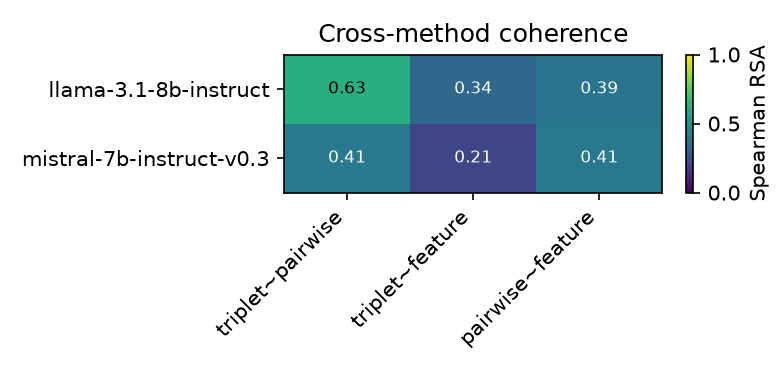
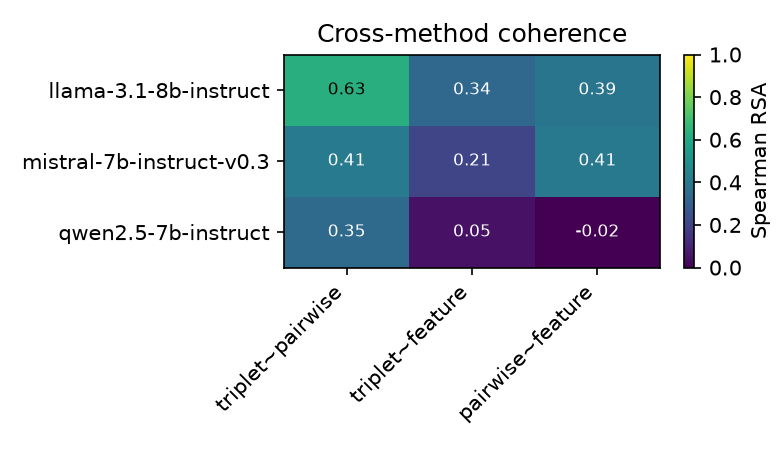
Fix feature True/False parser (answer after last A:), add variance guard + reliable summary; first 3-model coherence results

diff --git a/src/analysis.py b/src/analysis.py
@@ -153,17 +153,47 @@ def feature_similarity(model, concepts):
         ci = idx.get(_norm(concept))
         if ci is None:
             continue
-        val = 1 if "true" in str(row["response"]).lower() else 0
+        val = _parse_truefalse(row["response"])
+        if val is None:
+            continue
         feats.setdefault(feat, {})[ci] = val
     feat_names = sorted(feats)
     M = np.zeros((n, len(feat_names)))
     for fj, fn in enumerate(feat_names):
         for ci, v in feats[fn].items():
             M[ci, fj] = v
+    # Guard against degenerate (near-constant) feature matrices: if a model answers
+    # almost entirely True or almost entirely False, the derived RDM is noise.
+    frac_true = M.mean() if M.size else 0.0
+    if M.shape[1] == 0 or frac_true < 0.02 or frac_true > 0.98:
+        print(f"[feature] WARNING: near-constant answers (frac_true={frac_true:.3f}); "
+              f"RDM unreliable")
     Mn = normalize(M) if M.shape[1] else M
     sim = Mn @ Mn.T
     np.fill_diagonal(sim, 1.0)
     return sim
+
+
+def _parse_truefalse(resp):
+    """Take the model's answer only. The prompt echoes 'A: True'/'A: False' few-shot
+    examples, so read the text AFTER the last 'A:' and take the first true/false."""
+    s = str(resp)
+    if "A:" in s:
+        s = s.rsplit("A:", 1)[1]
+    s = s.lower()
+    ti = s.find("true")
+    fi = s.find("false")
+    if ti < 0 and fi < 0:
+        # fall back to yes/no
+        yi, ni = s.find("yes"), s.find("no")
+        if yi < 0 and ni < 0:
+            return None
+        return 1 if (yi >= 0 and (ni < 0 or yi < ni)) else 0
+    if ti < 0:
+        return 0
+    if fi < 0:
+        return 1
+    return 1 if ti < fi else 0
 
 
 METHOD_FN = {
